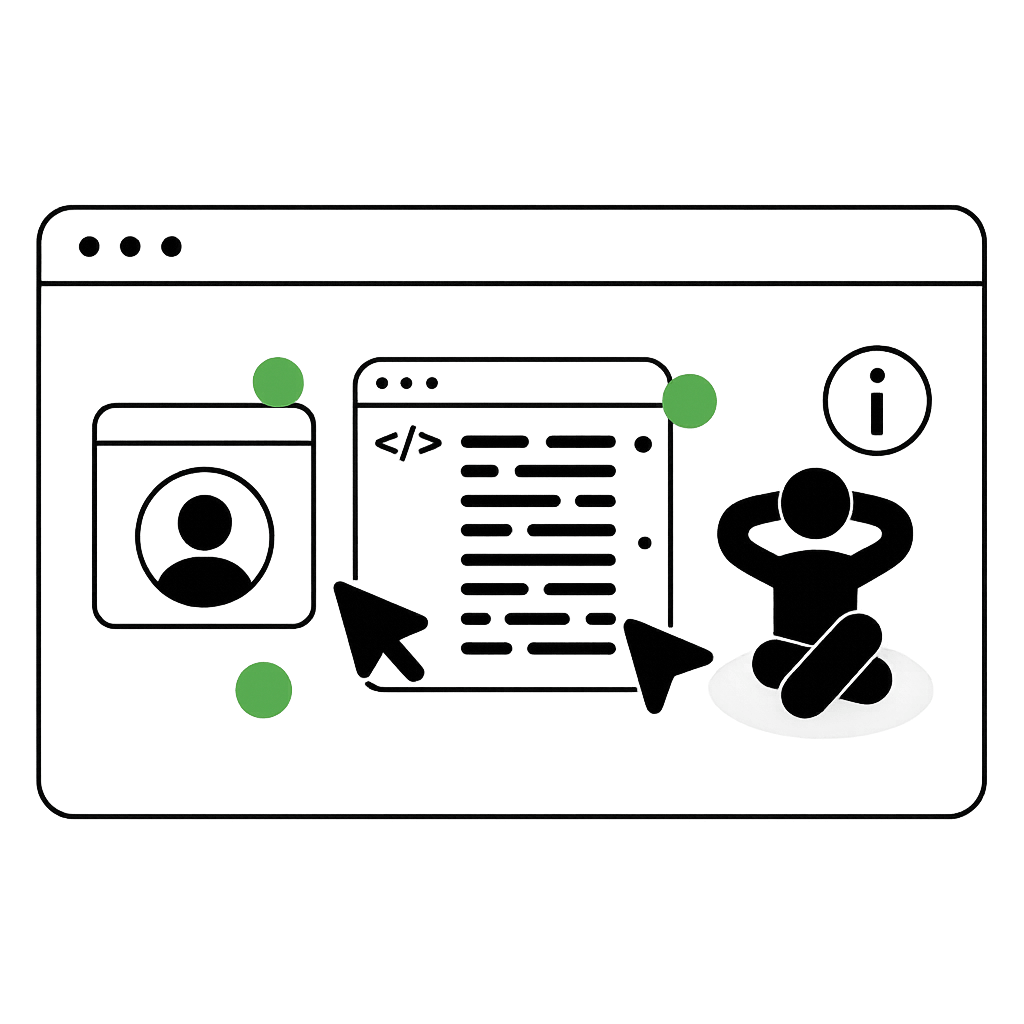
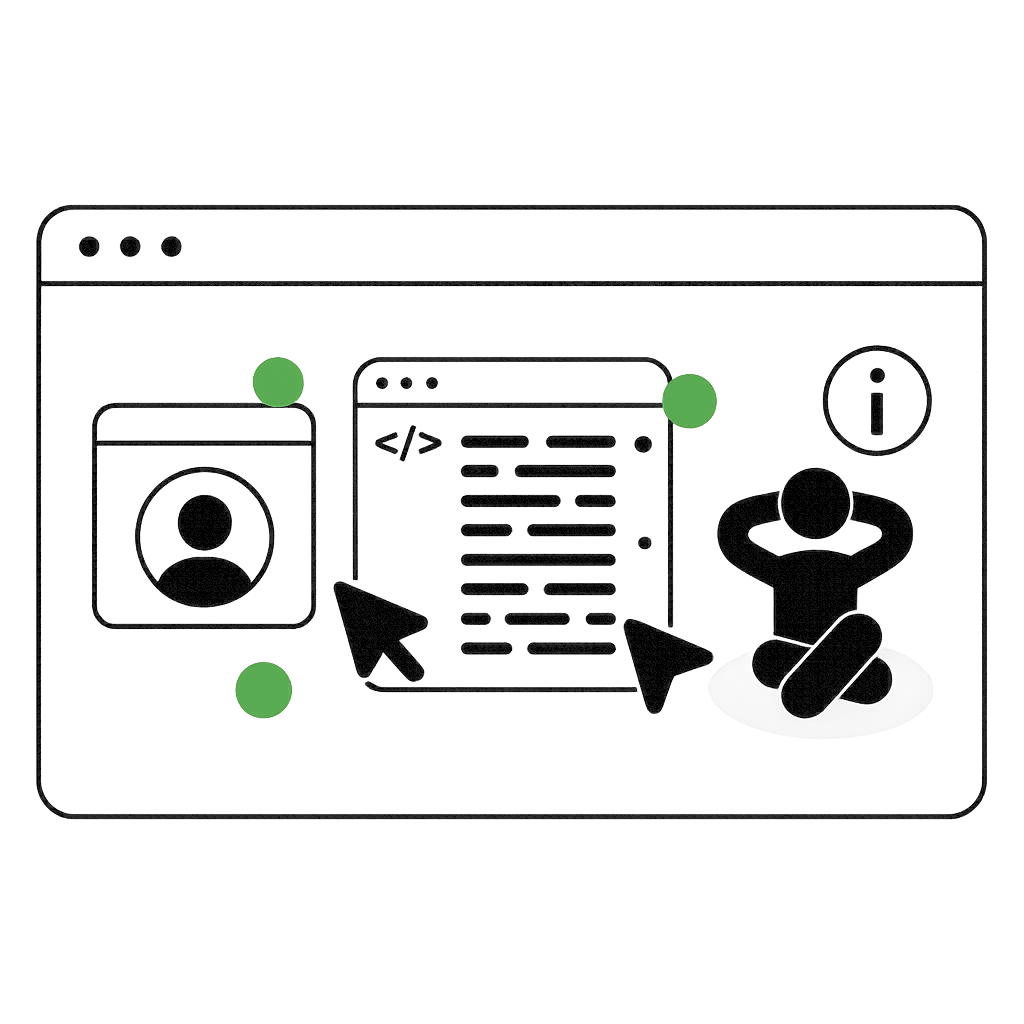
homepage ui/ux

diff --git a/src/styles/sections/Hero.module.css b/src/styles/sections/Hero.module.css
@@ -15,10 +15,11 @@
 
 .left {
   @apply flex-col gap-12 items-center lg:items-start text-center lg:text-left;
+  @apply order-2 lg:order-1;
 }
 
 .right {
-  @apply relative self-end flex justify-center;
+  @apply relative self-end flex justify-center order-1 lg:order-2;
   @apply sm:min-h-[500px] xl:min-h-[600px] xxl:min-h-[700px];
 }
 

diff --git a/src/styles/sections/HowItWorks.module.css b/src/styles/sections/HowItWorks.module.css
@@ -14,11 +14,11 @@
 }
 
 .left {
-  @apply flex-col gap-12;
+  @apply flex-col gap-12 order-2 lg:order-1;
 }
 
 .right {
-  @apply overflow-hidden self-end flex justify-center;
+  @apply overflow-hidden self-end flex justify-center order-1 lg:order-2;
 }
 
 .steps {
